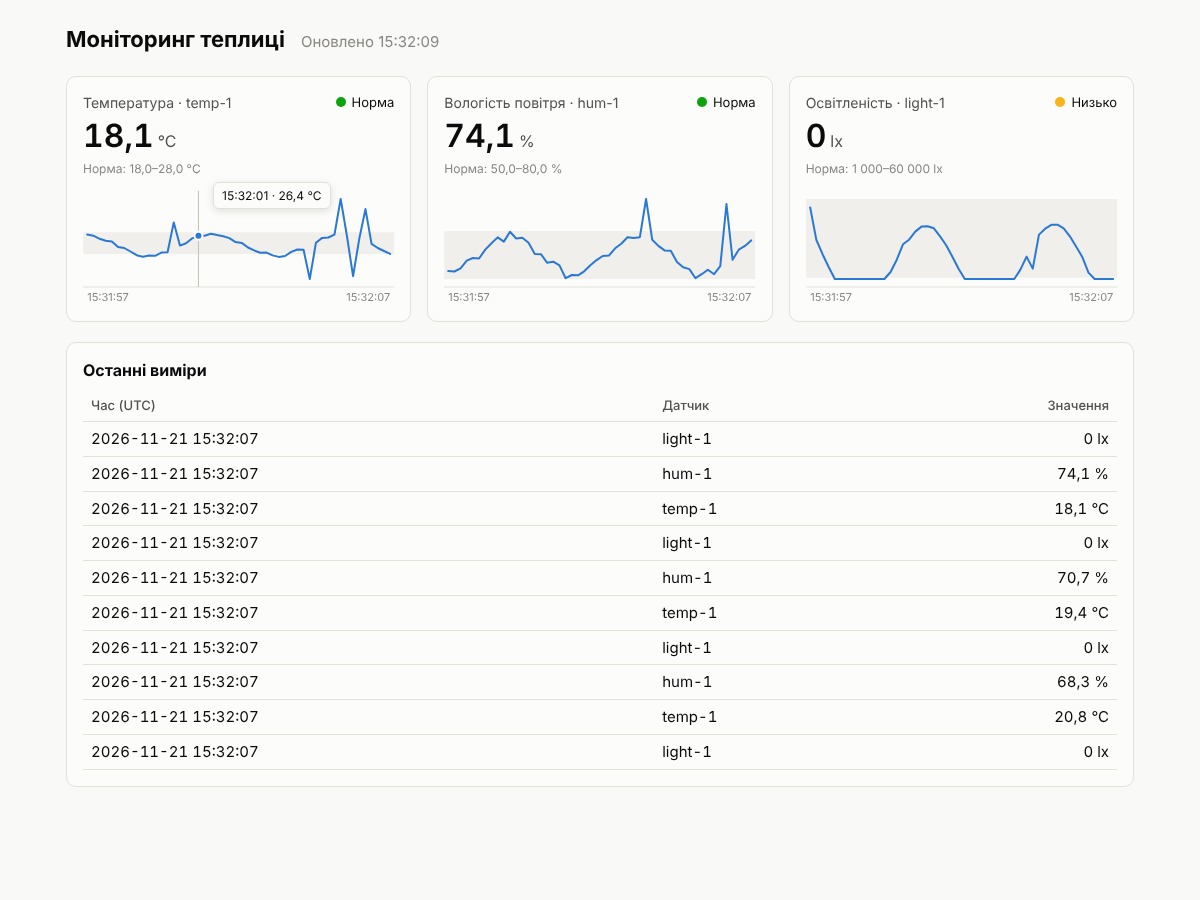
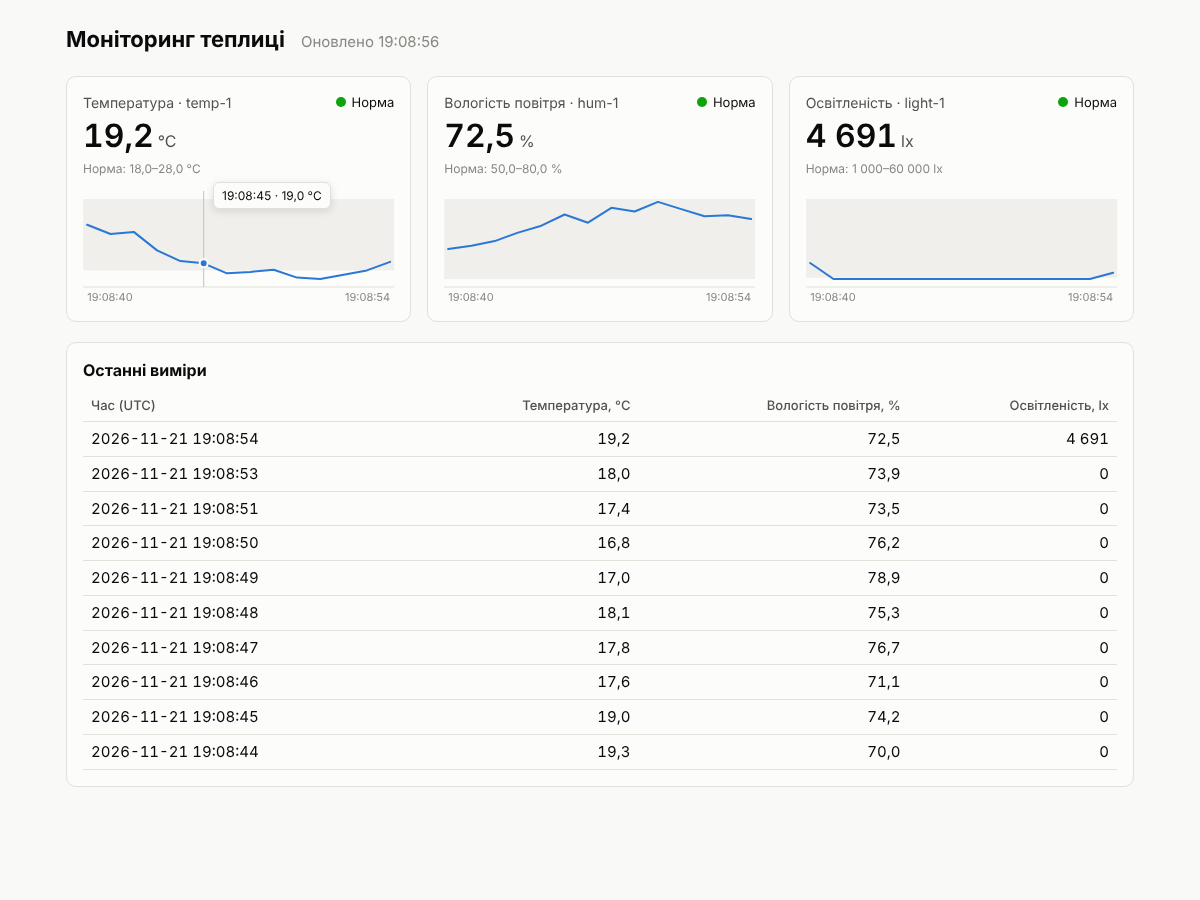
Дашборд: таблиця останніх вимірів по стовпцях датчиків
Claude-Session: https://claude.ai/code/session_01PEewutdAxkptMYCQaR1bYi

diff --git a/dashboard/app.js b/dashboard/app.js
@@ -3,6 +3,7 @@
 
 const REFRESH_MS = 3000;
 const HISTORY = 60; // скільки останніх точок показувати на графіку
+const RECENT_ROWS = 10; // скільки рядків у таблиці «Останні виміри»
 
 const LABELS = { temperature: "Температура", humidity: "Вологість повітря", light: "Освітленість" };
 const STATUS_TEXT = { ok: "Норма", low: "Низько", high: "Високо", no_data: "Немає даних" };
@@ -96,11 +97,44 @@ function drawChart(card) {
   });
 }
 
+// Таблиця: один рядок на момент часу, окремий стовпець для кожного датчика.
+function renderHeader() {
+  const tr = document.querySelector("#recent thead tr");
+  for (const { sensor } of Object.values(cards)) {
+    const th = document.createElement("th");
+    th.className = "num";
+    th.textContent = `${LABELS[sensor.kind] || sensor.kind}, ${sensor.unit}`;
+    tr.appendChild(th);
+  }
+}
+
+function renderRecent(recent) {
+  const byTime = new Map(); // recorded_at -> { sensor name -> value }, новіші першими
+  for (const r of recent) {
+    if (!byTime.has(r.recorded_at)) byTime.set(r.recorded_at, {});
+    byTime.get(r.recorded_at)[r.sensor] = r.value;
+  }
+  recentBody.innerHTML = "";
+  for (const [time, values] of [...byTime].slice(0, RECENT_ROWS)) {
+    const tr = document.createElement("tr");
+    const tdTime = document.createElement("td");
+    tdTime.textContent = time.replace("T", " ").slice(0, 19);
+    tr.appendChild(tdTime);
+    for (const { sensor } of Object.values(cards)) {
+      const td = document.createElement("td");
+      td.className = "num";
+      td.textContent = fmt(values[sensor.name], sensor.unit);
+      tr.appendChild(td);
+    }
+    recentBody.appendChild(tr);
+  }
+}
+
 async function refresh() {
   try {
     const [latest, recent] = await Promise.all([
       getJSON("/api/readings/latest"),
-      getJSON("/api/readings?limit=10"),
+      getJSON(`/api/readings?limit=${(RECENT_ROWS + 1) * Object.keys(cards).length}`),
     ]);
     for (const row of latest) {
       const card = cards[row.sensor];
@@ -113,18 +147,7 @@ async function refresh() {
       card.points = history.reverse();
       drawChart(card);
     }
-    recentBody.innerHTML = "";
-    for (const r of recent) {
-      const tr = document.createElement("tr");
-      const unit = cards[r.sensor] ? cards[r.sensor].sensor.unit : "";
-      for (const [text, cls] of [[r.recorded_at.replace("T", " ").slice(0, 19), ""], [r.sensor, ""], [`${fmt(r.value, unit)} ${unit}`, "num"]]) {
-        const td = document.createElement("td");
-        td.textContent = text;
-        if (cls) td.className = cls;
-        tr.appendChild(td);
-      }
-      recentBody.appendChild(tr);
-    }
+    renderRecent(recent);
     connEl.textContent = `Оновлено ${new Date().toLocaleTimeString("uk-UA")}`;
   } catch (err) {
     connEl.textContent = "Немає зв'язку з бекендом";
@@ -136,6 +159,7 @@ async function init() {
   try {
     const sensors = await getJSON("/api/sensors");
     sensors.forEach(createCard);
+    renderHeader();
   } catch (err) {
     connEl.textContent = "Немає зв'язку з бекендом";
     console.error(err);

diff --git a/dashboard/style.css b/dashboard/style.css
@@ -83,5 +83,5 @@ svg.chart .dot { fill: var(--series); stroke: var(--surface); stroke-width: 2; }
 .table-wrap { background: var(--surface); border: 1px solid var(--border); border-radius: 10px; padding: 16px; margin-bottom: 32px; overflow-x: auto; }
 table { width: 100%; border-collapse: collapse; font-variant-numeric: tabular-nums; }
 th, td { text-align: left; padding: 6px 8px; white-space: nowrap; border-bottom: 1px solid var(--grid); }
-th { color: var(--ink-2); font-weight: 500; font-size: 13px; }
+th { color: var(--ink-2); font-weight: 500; font-size: 13px; white-space: normal; vertical-align: bottom; }
 .num { text-align: right; }

diff --git a/dashboard/index.html b/dashboard/index.html
@@ -16,7 +16,7 @@
     <section class="table-wrap">
       <h2>Останні виміри</h2>
       <table id="recent">
-        <thead><tr><th>Час (UTC)</th><th>Датчик</th><th class="num">Значення</th></tr></thead>
+        <thead><tr><th>Час (UTC)</th></tr></thead>
         <tbody></tbody>
       </table>
     </section>
